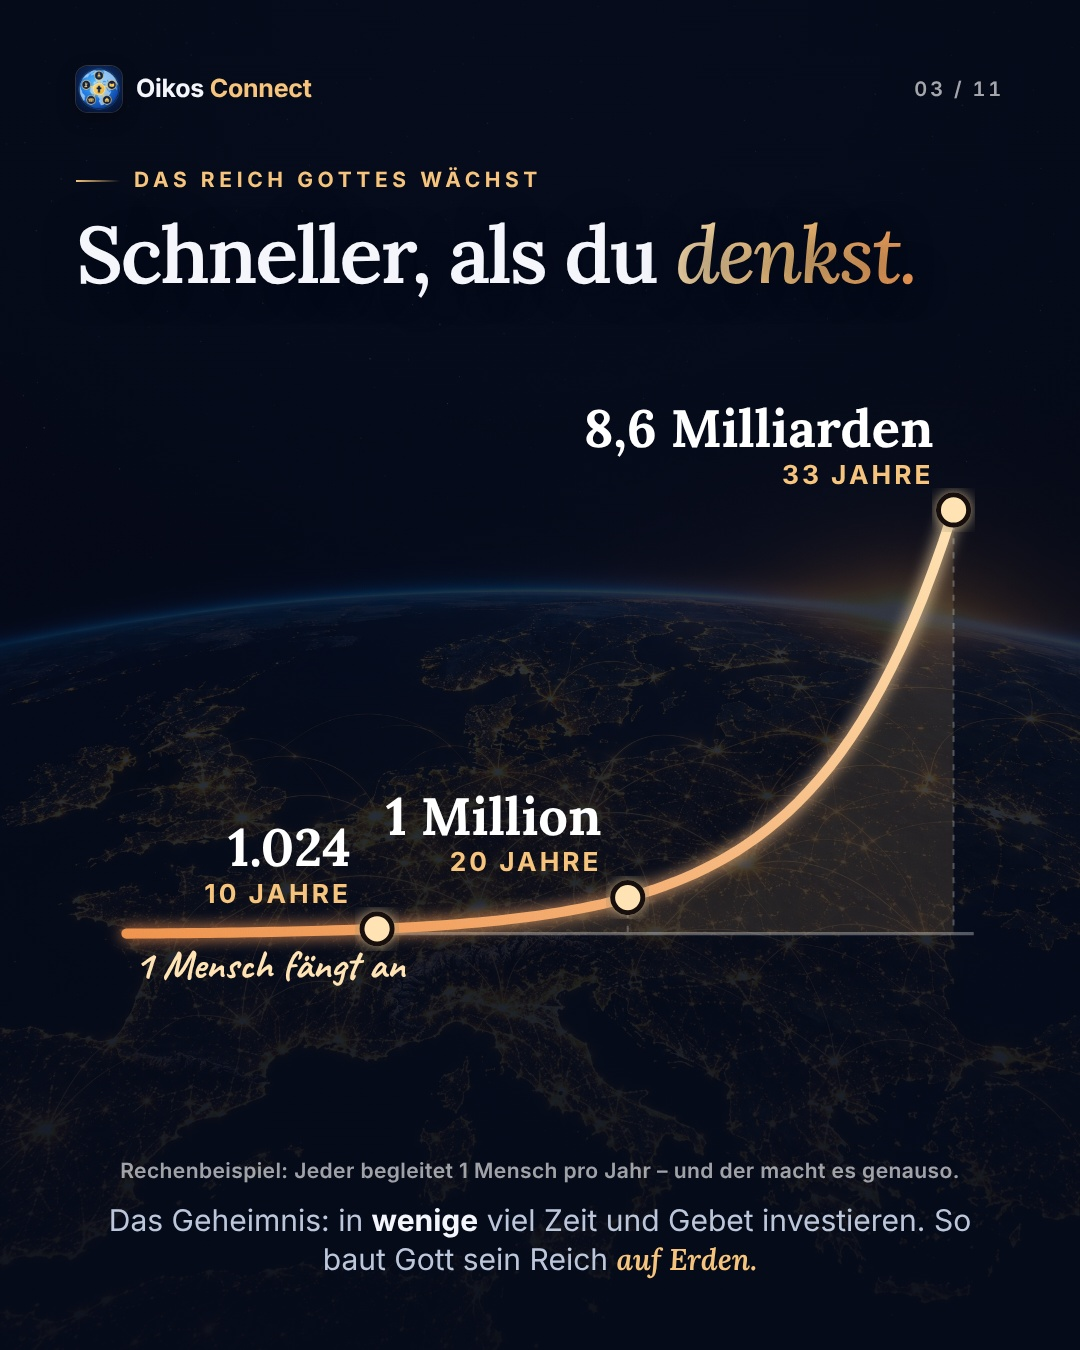
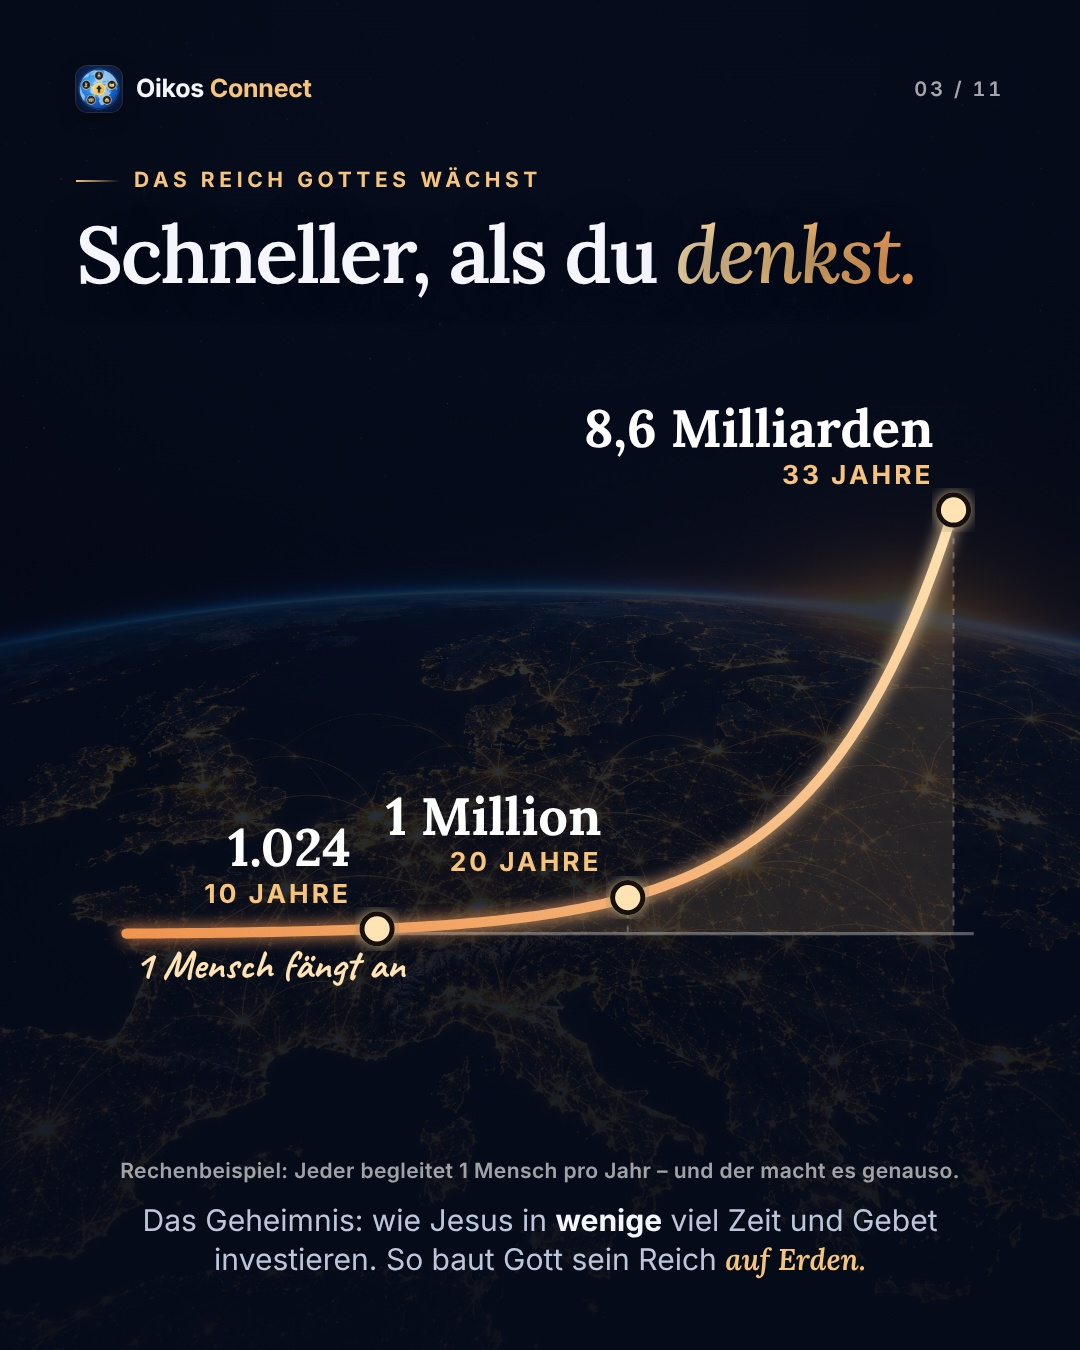
Post 001: Slides 1-3 neu (12 Jünger → 2 Milliarden, Apfel-Prinzip, Wachstum), Caption angepasst
Claude-Session: https://claude.ai/code/session_01JoDvWm4GYG7TTW7KF229oX

Changed region(s): [[0.1222, 0.8711, 0.8861, 0.9644]]

diff --git a/marketing/social/posts/001-launch/slides.html b/marketing/social/posts/001-launch/slides.html
@@ -24,12 +24,15 @@
   .vswipe { position: absolute; z-index: 10; right: var(--pad-x); bottom: var(--safe-bottom); font-family: var(--hand); font-weight: 700; font-size: 44px; color: var(--gold-light); display: inline-flex; align-items: center; gap: 10px; text-shadow: 0 2px 20px rgba(3,8,22,.9); }
   [data-f="tt"] .vswipe { bottom: 440px; }
   /* V1 */
-  .v1 .bgglow { position: absolute; z-index: -2; left: 50%; top: 56%; width: 1100px; height: 1100px; margin: -550px 0 0 -550px; background: radial-gradient(circle, rgba(246,193,119,.5), rgba(239,143,76,.12) 45%, rgba(0,0,0,0) 70%); }
-  .v1 .forest { position: absolute; z-index: 1; left: 0; right: 0; bottom: 0; height: 520px; }
-  [data-f="tt"] .v1 .forest { height: 640px; }
-  .v1 .vfig { position: relative; z-index: 3; padding-bottom: 20px; }
-  .v1 .vfig svg { max-height: 780px; margin-bottom: -30px; transform: scale(1.12); filter: drop-shadow(0 30px 50px rgba(0,0,0,.55)); }
-  [data-f="tt"] .v1 .vfig svg { max-height: 820px; }
+  .v1 .bgglow { position: absolute; z-index: -2; left: 50%; top: 52%; width: 1200px; height: 1200px; margin: -600px 0 0 -600px; background: radial-gradient(circle, rgba(246,193,119,.34), rgba(239,143,76,.08) 45%, rgba(0,0,0,0) 70%); }
+  .v1 .vwrap { padding-bottom: 150px; }
+  [data-f="tt"] .v1 .vwrap { padding-bottom: 520px; }
+  .v1 .vfig { margin: 6px -30px 0; }
+  .v1 .vfig svg { transform: scale(1.32); transform-origin: 50% 52%; }
+  .pillrow { display: flex; align-items: center; justify-content: center; gap: 16px; margin-top: 10px; color: var(--gold); font-size: 34px; }
+  .pillrow .pl { display: inline-flex; align-items: center; height: 72px; padding: 0 30px; border-radius: 999px; font-weight: 800; font-size: 29px; white-space: nowrap; }
+  .pillrow .a { background: rgba(255,255,255,.1); border: 1px solid rgba(255,255,255,.3); backdrop-filter: blur(12px); -webkit-backdrop-filter: blur(12px); color: #fff; }
+  .pillrow .b { background: linear-gradient(100deg, var(--gold-light), var(--gold) 50%, var(--gold-2)); color: #2a1503; box-shadow: 0 12px 36px rgba(246,193,119,.35); }
   /* V2 */
   .v2 .bg img { opacity: .4; object-position: center 60%; }
   .v2 .shade { background: linear-gradient(180deg, rgba(5,10,24,.85), rgba(5,10,24,.6) 50%, rgba(5,10,24,.9)); }
@@ -193,49 +196,47 @@
 </head>
 <body>
 <main class="deck">
+<svg width="0" height="0" style="position:absolute" aria-hidden="true"><defs>
+  <linearGradient id="skin" x1="0" y1="0" x2="1" y2="1"><stop offset="0" stop-color="#ff7a59"/><stop offset="1" stop-color="#c1272d"/></linearGradient>
+  <radialGradient id="flesh" cx=".5" cy=".45" r=".6"><stop offset="0" stop-color="#fffaf0"/><stop offset="1" stop-color="#ffe9bd"/></radialGradient>
+  <radialGradient id="seed" cx=".4" cy=".3" r=".8"><stop offset="0" stop-color="#fff3c9"/><stop offset="1" stop-color="#f0a53a"/></radialGradient>
+  <filter id="gl" x="-80%" y="-80%" width="260%" height="260%"><feGaussianBlur stdDeviation="7" result="b"/><feMerge><feMergeNode in="b"/><feMergeNode in="b"/><feMergeNode in="SourceGraphic"/></feMerge></filter>
+  <symbol id="apple" viewBox="0 0 400 400">
+    <path d="M200 112 C 200 84 212 62 232 44" fill="none" stroke="#6b4423" stroke-width="10" stroke-linecap="round"/>
+    <path d="M222 70 C 250 40 296 44 306 62 C 286 90 244 92 222 70 Z" fill="#4fd18b" stroke="#2a8a5c" stroke-width="3"/>
+    <path d="M200 110 C 160 70 70 90 60 190 C 52 290 120 375 175 368 C 192 366 200 358 200 358 C 200 358 208 366 225 368 C 280 375 348 290 340 190 C 330 90 240 70 200 110 Z" fill="url(#skin)"/>
+    <path transform="translate(200 238) scale(.86) translate(-200 -238)" d="M200 110 C 160 70 70 90 60 190 C 52 290 120 375 175 368 C 192 366 200 358 200 358 C 200 358 208 366 225 368 C 280 375 348 290 340 190 C 330 90 240 70 200 110 Z" fill="url(#flesh)"/>
+    <path d="M200 252 m-52 -22 q52 -50 104 0 q8 40 -52 74 q-60 -34 -52 -74z" fill="#e6c795" opacity=".75"/>
+    <g filter="url(#gl)"><g fill="url(#seed)" stroke="#a8641a" stroke-width="2">
+      <path transform="translate(200 214) rotate(0)" d="M0 -26 C 14 -8 14 14 0 26 C -14 14 -14 -8 0 -26Z"/>
+      <path transform="translate(245 245) rotate(72)" d="M0 -26 C 14 -8 14 14 0 26 C -14 14 -14 -8 0 -26Z"/>
+      <path transform="translate(228 292) rotate(144)" d="M0 -26 C 14 -8 14 14 0 26 C -14 14 -14 -8 0 -26Z"/>
+      <path transform="translate(172 292) rotate(216)" d="M0 -26 C 14 -8 14 14 0 26 C -14 14 -14 -8 0 -26Z"/>
+      <path transform="translate(155 245) rotate(288)" d="M0 -26 C 14 -8 14 14 0 26 C -14 14 -14 -8 0 -26Z"/></g></g>
+  </symbol>
+</defs></svg>
 
-<!-- V1 · HOOK: Apfel → Wald ───────────────────────── -->
+
+<!-- V1 · HOOK: 12 Jünger → 2 Milliarden ─────────── -->
 <section class="slide v1">
   <div class="bg"></div>
   <div class="bgglow"></div>
-  <div class="forest" id="forest"></div>
   <header class="brandbar">
     <div class="brand"><img src="../../brand/app-icon.png" alt=""><span>Oikos <b>Connect</b></span></div>
     <span class="counter"></span>
   </header>
   <div class="vwrap">
-    <span class="tag"><i data-icon="sparkles"></i>Stell dir vor</span>
-    <h1 class="vh h1">In diesem Apfel steckt ein <em>ganzer Wald.</em></h1>
-    <div class="vfig">
-      <svg viewBox="0 0 400 400" aria-hidden="true">
-        <defs>
-          <linearGradient id="skin" x1="0" y1="0" x2="1" y2="1"><stop offset="0" stop-color="#ff7a59"/><stop offset="1" stop-color="#c1272d"/></linearGradient>
-          <radialGradient id="flesh" cx=".5" cy=".45" r=".6"><stop offset="0" stop-color="#fffaf0"/><stop offset="1" stop-color="#ffe9bd"/></radialGradient>
-          <radialGradient id="seed" cx=".4" cy=".3" r=".8"><stop offset="0" stop-color="#fff3c9"/><stop offset="1" stop-color="#f0a53a"/></radialGradient>
-          <filter id="gl" x="-80%" y="-80%" width="260%" height="260%"><feGaussianBlur stdDeviation="7" result="b"/><feMerge><feMergeNode in="b"/><feMergeNode in="b"/><feMergeNode in="SourceGraphic"/></feMerge></filter>
-        </defs>
-        <path d="M200 112 C 200 84 212 62 232 44" fill="none" stroke="#6b4423" stroke-width="10" stroke-linecap="round"/>
-        <path d="M222 70 C 250 40 296 44 306 62 C 286 90 244 92 222 70 Z" fill="#4fd18b" stroke="#2a8a5c" stroke-width="3"/>
-        <path id="ap" d="M200 110 C 160 70 70 90 60 190 C 52 290 120 375 175 368 C 192 366 200 358 200 358 C 200 358 208 366 225 368 C 280 375 348 290 340 190 C 330 90 240 70 200 110 Z" fill="url(#skin)"/>
-        <path transform="translate(200 238) scale(.86) translate(-200 -238)" d="M200 110 C 160 70 70 90 60 190 C 52 290 120 375 175 368 C 192 366 200 358 200 358 C 200 358 208 366 225 368 C 280 375 348 290 340 190 C 330 90 240 70 200 110 Z" fill="url(#flesh)"/>
-        <path d="M200 252 m-52 -22 q52 -50 104 0 q8 40 -52 74 q-60 -34 -52 -74z" fill="#e6c795" opacity=".75"/>
-        <g filter="url(#gl)">
-          <g fill="url(#seed)" stroke="#a8641a" stroke-width="2">
-            <path transform="translate(200 214) rotate(0)" d="M0 -26 C 14 -8 14 14 0 26 C -14 14 -14 -8 0 -26Z"/>
-            <path transform="translate(245 245) rotate(72)" d="M0 -26 C 14 -8 14 14 0 26 C -14 14 -14 -8 0 -26Z"/>
-            <path transform="translate(228 292) rotate(144)" d="M0 -26 C 14 -8 14 14 0 26 C -14 14 -14 -8 0 -26Z"/>
-            <path transform="translate(172 292) rotate(216)" d="M0 -26 C 14 -8 14 14 0 26 C -14 14 -14 -8 0 -26Z"/>
-            <path transform="translate(155 245) rotate(288)" d="M0 -26 C 14 -8 14 14 0 26 C -14 14 -14 -8 0 -26Z"/>
-          </g>
-        </g>
-      </svg>
-    </div>
+    <span class="tag"><i data-icon="sparkles"></i>Jesus &amp; seine 12 Jünger</span>
+    <h1 class="vh h1">Aus 12 Menschen wurden über <em>2 Milliarden.</em></h1>
+    <p class="vsub">Kein Zufall – das war <b>Gottes Plan.</b> Und er funktioniert wie ein Apfel.</p>
+    <div class="vfig"><svg viewBox="0 0 920 860" aria-hidden="true" id="ring"></svg></div>
+    <div class="pillrow"><span class="pl a">12 Jünger</span><i data-icon="arrow-right" data-stroke="2.6"></i><span class="pl b">über 2 Milliarden Gläubige</span></div>
   </div>
-  <span class="vswipe">Wisch weiter <i data-icon="arrow-right" data-stroke="2.6"></i></span>
+  <span class="vswipe">Wie? <i data-icon="arrow-right" data-stroke="2.6"></i></span>
   <div class="grain"></div>
 </section>
 
-<!-- V2 · JÜNGERSCHAFT: Frucht, die Frucht bringt ─────── -->
+<!-- V2 · JÜNGERSCHAFT: Apfel-Prinzip ─────────────────── -->
 <section class="slide v2">
   <div class="bg"><img src="../../assets/photos/dawn-sky-916.jpg" alt=""></div>
   <div class="shade"></div>
@@ -245,15 +246,13 @@
     <span class="counter"></span>
   </header>
   <div class="vwrap">
-    <span class="eyebrow">Jüngerschaft</span>
-    <h2 class="vh m h2" style="margin-top:20px">Frucht, die wieder <em>Frucht bringt.</em></h2>
-    <p class="vsub">„…dass ihr hingeht und Frucht bringt und eure Frucht bleibt.“ <b>Johannes 15,16</b></p>
-    <div class="vfig">
-      <svg viewBox="0 0 920 470" aria-hidden="true" id="gen"></svg>
-    </div>
+    <span class="eyebrow">So hat Gott es gedacht</span>
+    <h2 class="vh m h2" style="margin-top:20px">Jüngerschaft ist wie ein <em>Apfel.</em></h2>
+    <p class="vsub">Aus einem Kern wird ein Baum. Der Baum trägt Äpfel mit neuen Kernen. <b>Jünger machen Jünger.</b></p>
+    <div class="vfig"><svg viewBox="0 0 920 470" aria-hidden="true" id="stage"></svg></div>
     <div class="glasscard soil">
       <div class="chips"><span class="chip"><small>×</small>30</span><span class="chip"><small>×</small>60</span><span class="chip"><small>×</small>100</span></div>
-      <p class="txt"><b>Guter Boden</b> bringt 30-, 60- und 100-fach Frucht.<span class="ref">Matthäus 13,23</span></p>
+      <p class="txt"><b>Guter Boden</b> bringt 30-, 60- und 100-fach Frucht.<span class="ref">Matthäus 13,23 · Johannes 15,16</span></p>
     </div>
   </div>
   <div class="grain"></div>
@@ -274,7 +273,7 @@
       <svg viewBox="0 0 920 520" aria-hidden="true" id="curve"></svg>
     </div>
     <p class="note">Rechenbeispiel: Jeder begleitet 1 Mensch pro Jahr – und der macht es genauso.</p>
-    <p class="key">Das Geheimnis: in <b>wenige</b> viel Zeit und Gebet investieren. So baut Gott sein Reich <em>auf Erden.</em></p>
+    <p class="key">Das Geheimnis: wie Jesus in <b>wenige</b> viel Zeit und Gebet investieren. So baut Gott sein Reich <em>auf Erden.</em></p>
   </div>
   <div class="grain"></div>
 </section>
@@ -504,30 +503,37 @@
     if (o.fruit) [[-14, -70], [18, -84], [-34, -46], [30, -48], [4, -52]].forEach(([cx, cy]) => el('circle', { cx, cy, r: 5.5, fill: o.fruit, filter: o.glow ? 'url(#fg)' : null }, gr))
     return gr
   }
-  // V1: Wald im Hintergrund
-  const f = document.getElementById('forest')
-  if (f) {
-    const svg = el('svg', { viewBox: '0 0 1080 520', width: '100%', height: '100%', preserveAspectRatio: 'xMidYMax slice' }, f)
-    const d = el('defs', {}, svg); const fl = el('filter', { id: 'fg', x: '-200%', y: '-200%', width: '500%', height: '500%' }, d); el('feGaussianBlur', { stdDeviation: 3, result: 'b' }, fl); const mg = el('feMerge', {}, fl); el('feMergeNode', { in: 'b' }, mg); el('feMergeNode', { in: 'SourceGraphic' }, mg)
-    const lg = el('linearGradient', { id: 'hz', x1: 0, y1: 0, x2: 0, y2: 1 }, d); el('stop', { offset: 0, 'stop-color': '#f6c177', 'stop-opacity': 0 }, lg); el('stop', { offset: 1, 'stop-color': '#f6c177', 'stop-opacity': .45 }, lg)
-    el('rect', { x: 0, y: 150, width: 1080, height: 370, fill: 'url(#hz)' }, svg)
-    const R = rng(21)
-    ;[{ y: 330, s: .95, n: 11, crown: '#1b3358', trunk: '#162a4a', op: .9 }, { y: 420, s: 1.25, n: 8, crown: '#10224a', trunk: '#0d1b3d', op: .95 }, { y: 540, s: 1.75, n: 6, crown: '#070f2a', trunk: '#050b20', fruit: '#f6c177', glow: 1 }].forEach(row => {
-      for (let i = 0; i < row.n; i++) tree(svg, (i + .3 + R() * .5) * (1080 / row.n), row.y + R() * 14, row.s * (.85 + R() * .35), row)
-    })
+  // V1: 12 Jünger → Millionen (Ringe aus Lichtpunkten)
+  const ring = document.getElementById('ring')
+  if (ring) {
+    const CX = 460, CY = 430, R = rng(5)
+    const d = el('defs', {}, ring)
+    const og = el('radialGradient', { id: 'orb', cx: .4, cy: .3, r: .9 }, d); el('stop', { offset: 0, 'stop-color': '#fff6e0' }, og); el('stop', { offset: 1, 'stop-color': '#f6c177' }, og)
+    const gf = el('filter', { id: 'rg', x: '-100%', y: '-100%', width: '300%', height: '300%' }, d); el('feGaussianBlur', { stdDeviation: 7, result: 'b' }, gf); const mg = el('feMerge', {}, gf); el('feMergeNode', { in: 'b' }, mg); el('feMergeNode', { in: 'SourceGraphic' }, mg)
+    const outer = []
+    ;[[235, 34, 4.2, .7], [305, 58, 4.6, .5], [370, 88, 5, .36], [425, 120, 5.4, .24]].forEach(([r, n, sz, op]) => { for (let i = 0; i < n; i++) { const an = (i / n) * 6.2832 + R() * .22, rr = r + (R() - .5) * 26; outer.push({ x: CX + Math.cos(an) * rr, y: CY + Math.sin(an) * rr, sz, op, an }) } })
+    const lines = el('g', { stroke: '#f6c177', 'stroke-width': 1.6, opacity: .35 }, ring)
+    const nodes = []; for (let k = 0; k < 12; k++) { const an = (k / 12) * 6.2832 - 1.5708; nodes.push({ x: CX + Math.cos(an) * 165, y: CY + Math.sin(an) * 165, an }) }
+    nodes.forEach(n => outer.filter(o => Math.abs(Math.atan2(Math.sin(o.an - n.an), Math.cos(o.an - n.an))) < .2 && o.op > .5).slice(0, 3).forEach(o => el('line', { x1: n.x, y1: n.y, x2: o.x, y2: o.y }, lines)))
+    outer.forEach(o => el('circle', { cx: o.x, cy: o.y, r: o.sz, fill: '#ffe2b0', opacity: o.op }, ring))
+    const sp = el('g', { stroke: '#f6c177', 'stroke-width': 3, opacity: .75 }, ring); nodes.forEach(n => el('line', { x1: CX, y1: CY, x2: n.x, y2: n.y }, sp))
+    nodes.forEach(n => el('circle', { cx: n.x, cy: n.y, r: 27, fill: 'url(#orb)', stroke: '#2a1503', 'stroke-width': 5, filter: 'url(#rg)' }, ring))
+    el('circle', { cx: CX, cy: CY, r: 78, fill: 'url(#orb)', filter: 'url(#rg)' }, ring)
+    const cr = el('g', { fill: '#2a1503' }, ring); el('rect', { x: CX - 11, y: CY - 48, width: 22, height: 96, rx: 5 }, cr); el('rect', { x: CX - 33, y: CY - 22, width: 66, height: 22, rx: 5 }, cr)
   }
-  // V2: Generationen 1 → 3 → 9
-  const gen = document.getElementById('gen')
-  if (gen) {
-    const d = el('defs', {}, gen); const lg = el('linearGradient', { id: 'cr', x1: 0, y1: 0, x2: 0, y2: 1 }, d); el('stop', { offset: 0, 'stop-color': '#8ae6a6' }, lg); el('stop', { offset: 1, 'stop-color': '#2fa46a' }, lg)
-    const rows = [{ y: 70, xs: [460], s: 1.0 }, { y: 235, xs: [230, 460, 690], s: .8 }, { y: 400, xs: [60, 160, 260, 360, 460, 560, 660, 760, 860], s: .55 }]
-    const links = el('g', { fill: 'none', stroke: '#f6c177', 'stroke-width': 3.5, 'stroke-linecap': 'round', opacity: .85 }, gen)
-    rows[1].xs.forEach(x => el('path', { d: `M460 ${rows[0].y + 16} C 460 ${rows[0].y + 80} ${x} ${rows[1].y - 90} ${x} ${rows[1].y - 52}` }, links))
-    rows[2].xs.forEach((x, i) => { const px = rows[1].xs[Math.floor(i / 3)]; el('path', { d: `M${px} ${rows[1].y + 14} C ${px} ${rows[1].y + 70} ${x} ${rows[2].y - 70} ${x} ${rows[2].y - 40}` }, links) })
-    rows.forEach(r => r.xs.forEach(x => tree(gen, x, r.y, r.s, { crown: 'url(#cr)', trunk: '#9a6a36', fruit: '#ff6b5a', shine: 1 })))
-    const t = (txt, x, y, sz, col, fam) => { const e = el('text', { x, y, 'font-size': sz, fill: col, 'font-family': fam || 'Inter', 'font-weight': 800, 'text-anchor': 'middle' }, gen); e.textContent = txt }
-    t('Du', 590, 78, 34, '#ffe2b0', 'Lora'); t('3', 340, 244, 34, '#ffe2b0', 'Lora'); t('9', 40, 340, 0, '#fff')
-    t('…und immer so weiter', 460, 462, 38, '#ffe2b0', 'Caveat')
+  // V2: Kern → Baum → Wald
+  const stg = document.getElementById('stage')
+  if (stg) {
+    const d = el('defs', {}, stg); const lg = el('linearGradient', { id: 'cr', x1: 0, y1: 0, x2: 0, y2: 1 }, d); el('stop', { offset: 0, 'stop-color': '#8ae6a6' }, lg); el('stop', { offset: 1, 'stop-color': '#2fa46a' }, lg)
+    const arrow = (x1, x2, y) => { const g = el('g', { stroke: '#f6c177', 'stroke-width': 7, 'stroke-linecap': 'round', fill: 'none' }, stg); el('path', { d: `M${x1} ${y} L${x2} ${y} M${x2 - 22} ${y - 20} L${x2} ${y} L${x2 - 22} ${y + 20}` }, g) }
+    const use = el('use', { href: '#apple', x: 20, y: 70, width: 250, height: 250 }, stg)
+    arrow(285, 345, 215)
+    tree(stg, 470, 300, 1.55, { crown: 'url(#cr)', trunk: '#9a6a36', fruit: '#ff6b5a', shine: 1 })
+    arrow(595, 655, 215)
+    ;[[700, 300, .85], [840, 300, .85], [770, 262, .7], [735, 215, .5], [845, 215, .5]].sort((p, q) => p[1] - q[1]).forEach(([x, y, s]) => tree(stg, x, y, s, { crown: 'url(#cr)', trunk: '#9a6a36', fruit: '#ff6b5a', shine: 1 }))
+    const t = (txt, x, y) => { const e = el('text', { x, y, 'font-size': 44, fill: '#ffe2b0', 'font-family': 'Caveat', 'font-weight': 700, 'text-anchor': 'middle' }, stg); e.textContent = txt }
+    t('1 Apfel, viele Kerne', 145, 372); t('1 Baum, viele Äpfel', 470, 372); t('ein ganzer Wald', 775, 372)
+    const e = el('text', { x: 460, y: 440, 'font-size': 40, fill: '#fff', 'font-family': 'Inter', 'font-weight': 800, 'text-anchor': 'middle', 'letter-spacing': 3 }, stg); e.textContent = 'JÜNGER MACHEN JÜNGER'
   }
   // V3: Wachstumskurve
   const cv = document.getElementById('curve')

diff --git a/marketing/social/posts/001-launch/caption.md b/marketing/social/posts/001-launch/caption.md
@@ -1,13 +1,13 @@
-# Post 001 · Vision + App-Launch – „In diesem Apfel steckt ein ganzer Wald“
+# Post 001 · Vision + App-Launch – „Aus 12 Menschen wurden über 2 Milliarden“
 
 **Ziel:** Vision von Jüngerschaft/Multiplikation vermitteln → Oikos Connect vorstellen → Challenge „3 Menschen · 7 Tage“.
 **Dateien:** `export/instagram/01–11.jpg` (1080×1350) · `export/tiktok/01–11.jpg` (1080×1920)
 
 | # | Slide | Inhalt |
 |---|-------|--------|
-| 1 | Hook | „In diesem Apfel steckt ein ganzer Wald.“ (Apfel mit leuchtenden Samen, Wald darunter) |
-| 2 | Jüngerschaft | Frucht, die wieder Frucht bringt (Joh 15,16), Baum → 3 → 9, guter Boden 30-/60-/100-fach (Mt 13,23) |
-| 3 | Wie schnell | Wachstumskurve: 1 Mensch/Jahr → 10 J: 1.024 · 20 J: 1 Mio. · 33 J: 8,6 Mrd. (Rechenbeispiel), in wenige viel Zeit und Gebet investieren |
+| 1 | Hook | „Aus 12 Menschen wurden über 2 Milliarden.“ Kreuz + 12 Jünger + wachsende Lichter, „Gottes Plan – er funktioniert wie ein Apfel“ |
+| 2 | Jüngerschaft = Apfel | Kern → Baum → Wald, „Jünger machen Jünger“, guter Boden 30-/60-/100-fach (Mt 13,23, Joh 15,16) |
+| 3 | Wie schnell | Wachstumskurve: 1 Mensch/Jahr → 10 J: 1.024 · 20 J: 1 Mio. · 33 J: 8,6 Mrd. (Rechenbeispiel), wie Jesus in wenige viel Zeit und Gebet investieren |
 | 4 | Oikos Map | Behalte im Blick, wer zu dir gehört |
 | 5 | Gebet | Bete gezielt. Mit Namen. |
 | 6 | Menschen begleiten | Story-Line & Impact-Stufen |
@@ -17,16 +17,16 @@
 | 10 | Werte | Kostenlos, werbefrei, du entscheidest, geschützter Raum |
 | 11 | CTA | Challenge: 3 Menschen · 7 Tage beten · „3“ kommentieren · App Store |
 
-**Fakten-Hinweis:** Mt 13,23 / Mk 4,20 nennen **30-, 60- und 100-fach** (nicht 130–160). Das Rechenbeispiel (Verdopplung pro Jahr) ist vereinfacht und als „Rechenbeispiel“ gekennzeichnet.
+**Fakten-Hinweis:** „über 2 Milliarden“ = Christen weltweit (gängige Schätzung, vor dem Posten kurz gegenprüfen). Mt 13,23 / Mk 4,20 nennen **30-, 60- und 100-fach** (nicht 130–160). Das Rechenbeispiel (Verdopplung pro Jahr) ist vereinfacht und als „Rechenbeispiel“ gekennzeichnet.
 
 ---
 
 ## Instagram (Karussell)
 
 ```
-In diesem Apfel steckt ein ganzer Wald. 🍎🌳
+Jesus hatte 12 Jünger. Heute glauben über 2 Milliarden Menschen an ihn. 🤯
 
-Ein Kern wird ein Baum. Der Baum trägt hunderte Äpfel. Jeder Apfel hat wieder Kerne – und so weiter. Genau so hat Jesus sich Jüngerschaft gedacht: Frucht, die wieder Frucht bringt (Johannes 15,16).
+Kein Zufall – das war Gottes Plan, und er funktioniert wie ein Apfel: Ein Kern wird ein Baum. Der Baum trägt hunderte Äpfel. Jeder Apfel hat wieder Kerne – und so weiter. Genau so hat Jesus sich Jüngerschaft gedacht: Frucht, die wieder Frucht bringt (Johannes 15,16).
 
 Guter Boden bringt 30-, 60- und 100-fach Frucht (Matthäus 13,23). Und das Rechenbeispiel zeigt, wie schnell das geht: Wenn jeder nur 1 Mensch pro Jahr begleitet – und der macht es genauso – sind es nach 33 Jahren theoretisch 8,6 Milliarden. Das Geheimnis: in wenige viel Zeit und viel Gebet investieren. So baut Gott sein Reich auf Erden.
 
@@ -55,8 +55,8 @@ Wer sind deine 3 Namen? Schreib nur die Anfangsbuchstaben – wir beten mit 🙏
 ```
 
 **Alternativtext** (je Bild):
-1. Ein aufgeschnittener Apfel mit leuchtenden goldenen Kernen, darunter ein Wald aus Apfelbäumen. Text: In diesem Apfel steckt ein ganzer Wald.
-2. Grafik: ein Baum, darunter 3 Bäume, darunter 9 Bäume. Text: Frucht, die wieder Frucht bringt. Guter Boden bringt 30-, 60- und 100-fach Frucht.
+1. Ein Kreuz in einem goldenen Kreis, 12 leuchtende Punkte darum, nach außen immer mehr Lichter. Text: Aus 12 Menschen wurden über 2 Milliarden.
+2. Grafik: Apfel mit Kernen, Pfeil, Baum mit Äpfeln, Pfeil, Wald. Text: Jüngerschaft ist wie ein Apfel – Jünger machen Jünger. Guter Boden bringt 30-, 60- und 100-fach Frucht.
 3. Wachstumskurve: 10 Jahre 1.024, 20 Jahre 1 Million, 33 Jahre 8,6 Milliarden. Text: Schneller, als du denkst.
 4. Smartphone mit der Oikos Map. Text: Behalte im Blick, wer zu dir gehört.
 5. Smartphone mit der Gebetsansicht. Text: Bete gezielt. Mit Namen.
@@ -77,12 +77,12 @@ Wer sind deine 3 Namen? Schreib nur die Anfangsbuchstaben – wir beten mit 🙏
 
 ## TikTok (Foto-Slideshow)
 
-**Titel:** `In diesem Apfel steckt ein ganzer Wald 🍎🌳`
+**Titel:** `Aus 12 Menschen wurden über 2 Milliarden 🤯`
 
 **Beschreibung:**
 
 ```
-So hat Jesus sich Jüngerschaft gedacht: Frucht, die wieder Frucht bringt 🌱 Such dir diese Woche 3 Menschen aus und bete 7 Tage für sie. Schreib „3“, wenn du dabei bist 🙏 Oikos Connect hilft dir dabei – kostenlos im App Store, Link in Bio.
+Jesus hatte 12 Jünger – heute glauben über 2 Milliarden an ihn. So funktioniert Gottes Plan: wie bei einem Apfel 🍎 Such dir diese Woche 3 Menschen aus und bete 7 Tage für sie. Schreib „3“, wenn du dabei bist 🙏 Oikos Connect hilft dir dabei – kostenlos im App Store, Link in Bio.
 
 #christentok #glaube #gebet #jesus #juengerschaft #oikosconnect #fürdich
 ```
